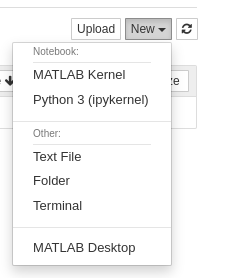
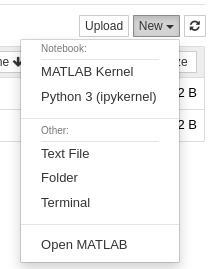
Update main readme and images

Changed region(s): [[0.0, 0.0, 0.9767, 1.0], [0.1395, 0.7138, 0.4186, 0.7732], [0.1395, 0.6245, 0.3628, 0.684]]

diff --git a/README.md b/README.md
@@ -6,9 +6,10 @@
 The MATLAB® Integration for Jupyter enables you to access MATLAB from your Juptyer environment. You can integrate MATLAB with an existing JupyterHub deployment, single user Jupyter Notebook Server, and many other Jupyter-based systems running in the cloud or on-premises.
 
 Once installed, you can:
-|Create notebooks for MATLAB | Launch MATLAB in a browser|
+|Capability| Example|
 |--|--|
-|<p align="center"><img width="400" src="img/JuptyerKernel.gif"></p>|<p align="center"><img width="400" src="img/JupyterMATLABDesktop.gif"></p>|
+|**Create notebooks for MATLAB** | <p align="center"><img width="600" src="img/JuptyerKernel.gif"></p>|
+|**Launch MATLAB in a browser**|<p align="center"><img width="600" src="img/JupyterMATLABDesktop.gif"></p>|
 
 This package supports both classic Jupyter and JuptyerLab, however, some capabilities may be limited to the JupyterLab interface.
 
@@ -56,9 +57,6 @@ This repository can be installed directly from the Python Package Index.
 ```bash
 python3 -m pip install jupyter-matlab-proxy
 ```
-
-Installing this package will also install [JupyterLab](https://jupyterlab.readthedocs.io/en/stable/) and [Jupyter Server Proxy](https://jupyter-server-proxy.readthedocs.io/en/latest/) on your machine, if they are not installed already.
-
 You must have [MATLAB](https://www.mathworks.com/help/install/install-products.html) installed to execute MATLAB code through Jupyter,
 installing this package will not automatically install MATLAB.
 
@@ -92,19 +90,18 @@ environment should present options to launch a Jupyter notebook with a MATLAB ke
 |--|--|
 |<p align="center"><img width="200" src="img/classic-jupyter.png"></p> | <p align="center"><img width="500" src="img/jupyterlab-notebook-section.png"></p> |
 
-
+## Detailed Usage 
 When JupyterLab is opened you will be presented with multiple options.
 
-<p align="left">
-  <img width="500" src="img/jupyterlab_icons.png">
-</p>
+|![jupyterLabIcons](img/jupyterlab_icons.png)|
+|-|
 
 ### **MATLAB Kernel: Opens a Jupyter Notebook using a MATLAB Kernel**
 Click the icon below to launch a notebook:
 
 |Icon | Notebook |
 |--|--|
-|<p align="center"><img width="100" src="img/matlab-kernel-button.png"></p> | <p align="center"><img width="500" src="img/jupyterlab-notebook.png"></p> |
+|<p align="center"><img width="100" src="img/matlab-kernel-button.png"></p> | <p align="center"><img width="600" src="img/jupyterlab-notebook.png"></p> |
 
 
 * The first time you execute code in a MATLAB notebook you will be asked to log in,
@@ -113,19 +110,21 @@ or use a network license manager. Follow the [licensing](#licensing) instruction
 * Wait for the MATLAB session to start. This can take several minutes.
 * **NOTE**: All notebooks in a Jupyter server, share the same underlying MATLAB process. Users must be mindful of this as executing code in one notebook will effect the workspace in other notebooks as well.
 
-### **MATLAB Desktop: Access MATLAB in a Browser from JupyterLab**
+For more information, see [MATLAB Kernel for Jupyter](src/jupyter_matlab_kernel/README.md).
+
+### **Open MATLAB: Access MATLAB in a Browser from JupyterLab**
 Click the icon below to launch MATLAB in a browser:
 |Icon | Desktop |
 |--|--|
-|<p align="center"><img width="100" src="img/matlab-desktop-button.png"></p> | <p align="center"><img width="500" src="img/jupyter_matlab_desktop.png"></p> |
+|<p align="center"><img width="100" src="img/matlab-desktop-button.png"></p> | <p align="center"><img width="600" src="img/jupyter_matlab_desktop.png"></p> |
 
 * Access MATLAB in a browser from your Jupyter environment.
-* For more information, see [Proxy](src/jupyter_matlab_proxy/README.md).
 * Notebooks in JupyterLab, also have a `Open MATLAB` shortcut on the top to access the MATLAB desktop.
-<p align="center">
-  <img width="400" src="img/open-matlab-button.png">
-</p>
 
+For more information, see [Open MATLAB in a browser](src/jupyter_matlab_proxy/README.md).
+
+|![open-matlab-button](img/open-matlab-button.png)|
+|-|
 
 ### **MATLAB File: Opening a `.m` File in JupyterLab**
 Click the icon below to start editing a new MATLAB File:
@@ -143,11 +142,8 @@ Click the icon below to start editing a new MATLAB File:
 * If prompted to do so, enter credentials for a MathWorks account associated with a MATLAB license. If you are using a network license manager, change to the _Network License Manager_ tab and enter the license server address instead.
 To determine the appropriate method for your license type, consult [MATLAB Licensing Info](https://github.com/mathworks/jupyter-matlab-proxy/blob/main/MATLAB-Licensing-Info.md).
 
-<p align="center">
-  <img width="400" src="https://github.com/mathworks/jupyter-matlab-proxy/raw/main/img/licensing_GUI.png">
+<img width="600" src="https://github.com/mathworks/jupyter-matlab-proxy/raw/main/img/licensing_GUI.png">
 </p>
-
-* Wait for the MATLAB session to start. This can take several minutes.
 
 ## Integration with JupyterHub
 
@@ -160,9 +156,9 @@ A reference architecture that installs `jupyter-matlab-proxy` in a Docker image 
 ## Limitations
 * Notebooks running on the same server share the same MATLAB. It is currently not possible to have separate workspaces for each notebook.
 
-* Kernels cannot restart MATLAB automatically when users explicitly shut MATLAB down using the `exit` command or through the web desktop interface.
+* Kernels cannot restart MATLAB automatically when users explicitly shut MATLAB down using the `exit` command or through the web desktop interface. Users must manually start MATLAB through options provided when they click "Open MATLAB".
 
-* Functions defined in a notebook cell are only accessible within that cell.
+* Startin R2022b onwards users can define functions directly in a notebook cell, but they are only accessible from within that cell.
 
 * Some MATLAB commands are unavailable for use with notebooks. Typically these are command which require further interaction from users for example: `input`, `keyboard`.
 
@@ -173,7 +169,7 @@ A reference architecture that installs `jupyter-matlab-proxy` in a Docker image 
 * Locally licensed MATLABs are currently not supported. Users must either login using Online Licensing or use a Network License Manager.
 
 ## Troubleshooting
-For a guide to troubleshooting issues with MATLAB proxy, see [Troubleshooting](./troubleshooting.md).
+See [Troubleshooting](./troubleshooting.md) for steps which help investigate common installation issues.
 
 ## Feedback
 
